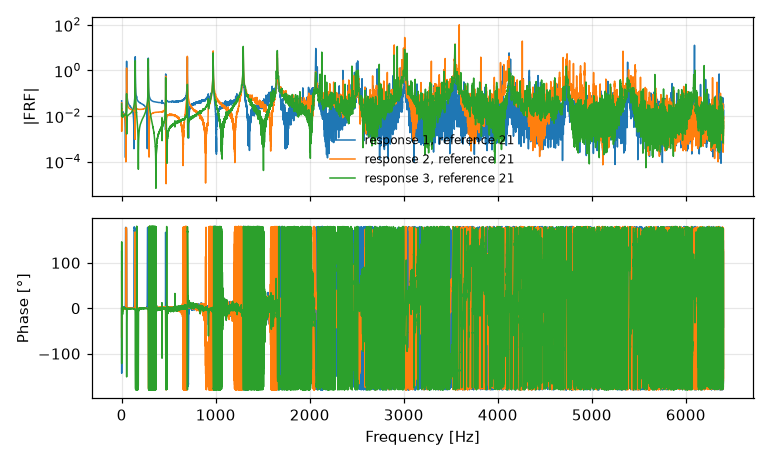
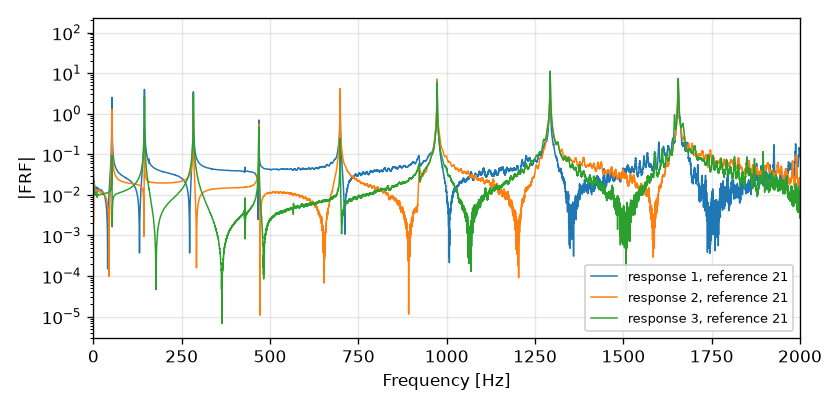
Fix the documentation: FRF figure, index and a literal in the UFF docstring
- The tutorial figure shows the FRF magnitude up to 2000 Hz; the noisy phase and the
  range up to 6400 Hz made it hard to read. The plotting code matches the figure.
- The contents of the index page are no longer listed twice.
- The '-1' line in the UFF class docstring rendered with its backticks.

diff --git a/pyuff/pyuff.py b/pyuff/pyuff.py
@@ -68,7 +68,7 @@ class UFF:
     """
     A universal file (UFF/UNV), for reading and writing its data-sets.
 
-    A universal file is a text file of data-sets, each between two lines ``    -1``. Each
+    A universal file is a text file of data-sets, each between two lines with ``-1``. Each
     data-set is read into a dictionary: its ``type`` key is the data-set number (e.g. 58)
     and the other keys are the fields of the data-set. Numerical data are NumPy arrays.
 

diff --git a/docs/source/showcase.rst b/docs/source/showcase.rst
@@ -48,19 +48,17 @@ the response degree of freedom, ``ref_node`` and ``ref_dir`` the reference (exci
 
 .. code-block:: python
 
-    fig, (ax1, ax2) = plt.subplots(2, 1, sharex=True)
     for frf in frfs:
         label = f"response {frf['rsp_node']}, reference {frf['ref_node']}"
-        ax1.semilogy(frf['x'], np.abs(frf['data']), label=label)
-        ax2.plot(frf['x'], np.angle(frf['data'], deg=True))
-    ax1.set_ylabel('|FRF|')
-    ax2.set_ylabel('Phase [°]')
-    ax2.set_xlabel('Frequency [Hz]')
-    ax1.legend()
+        plt.semilogy(frf['x'], np.abs(frf['data']), label=label)
+    plt.xlim(0, 2000)
+    plt.xlabel('Frequency [Hz]')
+    plt.ylabel('|FRF|')
+    plt.legend()
     plt.show()
 
 .. image:: images/beam_frfs.png
-    :alt: Magnitude and phase of the three FRFs in beam.uff
+    :alt: Magnitude of the three FRFs in beam.uff, up to 2000 Hz
 
 To read only the description of large data-sets 58, without their values, use
 ``read_sets(header_only=True)``.

diff --git a/docs/source/index.rst b/docs/source/index.rst
@@ -36,7 +36,7 @@ Contents
 --------
 
 .. toctree::
-    :maxdepth: 2
+    :hidden:
 
     showcase
     conventions
